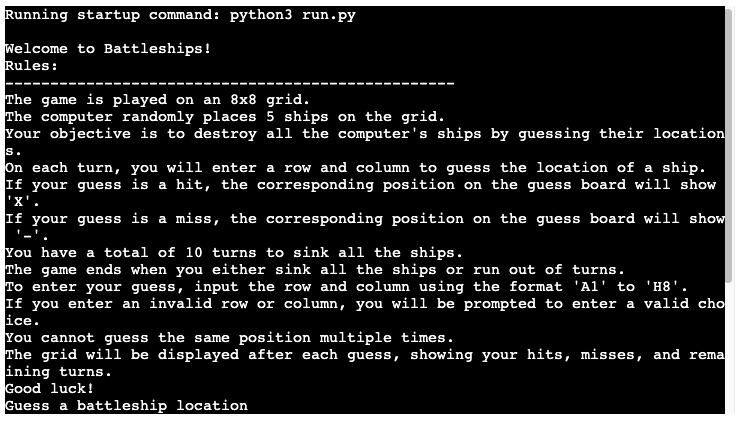
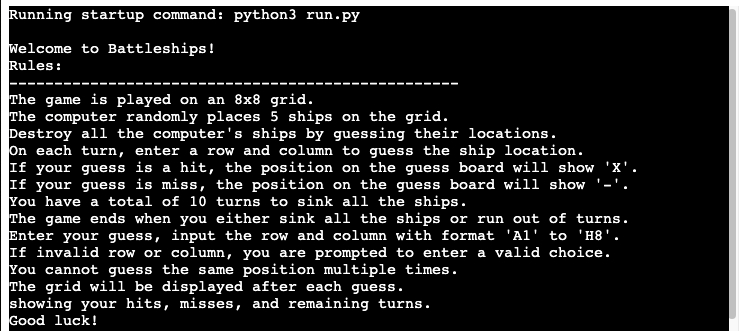
Edit images for read me file

Changed region(s): [[0.0, 0.0, 0.9933, 1.0]]

diff --git a/README.md b/README.md
@@ -22,7 +22,7 @@
 
 - Then you scroll down to the gameplay board.
 
-![boardgame](/images/battleship-board.png)
+![boardgame](/images/board-game-play.png)
 
 ## Features
 
